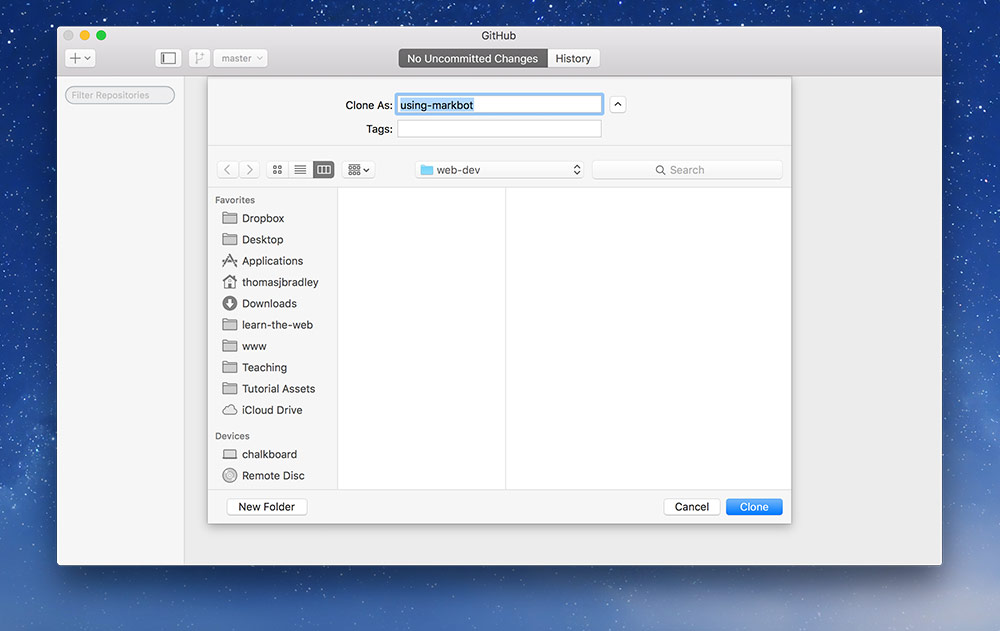
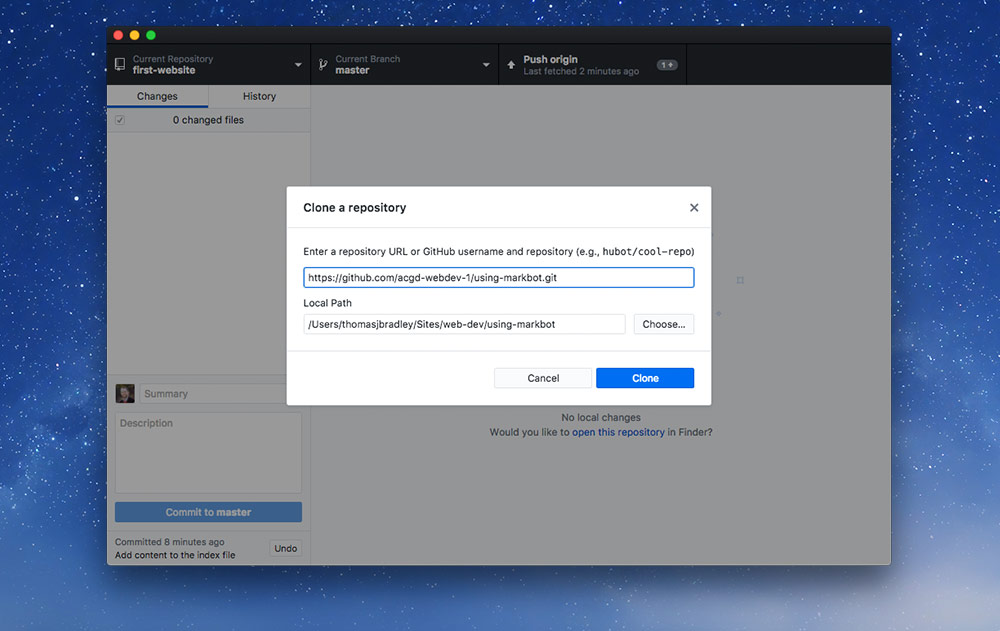
Update all the week 3 lessons to match all the new interfaces

diff --git a/website-on-github.md b/website-on-github.md
@@ -43,44 +43,21 @@ steps:
       - label: "Naming conventions"
         text: "Don’t forget to follow the [naming conventions](/topics/naming-paths-cheat-sheet/#naming-conventions)."
 
-  - title: "Create the gh-pages branch"
+  - title: "Set up for hosting"
     before: |
-      Our repository is completely usable—but it’s not a live website. By default GitHub allows us to share code online, but we have to opt-in to their website hosting service.
+      Before we write any code we’re going to set up the code repository so it’s a live, hosted website.
 
-      To opt-in to the hosting service we have to make a new branch named `gh-pages`
-
-      ![](gh-pages.jpg)
-
-      1. Click the “Branch” button.
-      2. Type `gh-pages` into the text field.
-      3. Press “Create branch: gh-pages” to execute.
-
-    notes:
-      - label: "Shortcut"
-        text: "Hit `Return` after typing `gh-pages` to create the branch."
-
-  - title: "Set the default branch"
-    before: |
-      Now we have two branches in our repository—but we only need `gh-pages`
-
-      We should set `gh-pages` as the default branch and delete the old `master` branch.
+      By default the code stored on GitHub isn’t assumed to be a website—any code can be store on the service. We need to opt-into the free website hosting that GitHub provides, named GitHub Pages.
     image_steps:
-      - url: branches.jpg
-        text: "Click “2 branches” in the top navigation."
-      - url: change-default.jpg
-        text: "Press the “Change default branch” button."
-      - url: master-default.jpg
-        text: "Change `master` to `gh-pages`"
-      - url: update.jpg
-        text: "Press “Update”."
-      - url: back-to-repo.jpg
-        text: "Go back to the main page for the repo."
-      - url: branches-2.jpg
-        text: "Press “2 branches” again."
-      - url: delete-master.jpg
-        text: "Delete `master` by pressing the trash icon."
-    after: |
-      **We now have a completely hosted GitHub website repository. But it doesn’t work yet because there’s no HTML in it.**
+      - url: "settings.jpg"
+        text: |
+          Click the “Settings” tab at the top of the repository.
+      - url: "gh-pages.jpg"
+        text: |
+          Scroll down a little and under the “GitHub Pages” section, where it says “None”, select “master branch”.
+      - url: "gh-pages-save.jpg"
+        text: |
+          Press “Save”
 
   - title: "Clone to computer"
     before: |
@@ -90,7 +67,11 @@ steps:
 
       The GitHub Desktop application will pop up and ask you where to save the repository. Put it into your `web-dev` folder—**you don’t have to make a folder specifically for this repo, the app will make it for you.**
 
-      ![](desktop.jpg)
+      ![](desktop-location.jpg)
+
+      Then click the “Clone” button:
+
+      ![](desktop-clone.jpg)
 
   - title: "Open in code editor"
     before: |
@@ -165,14 +146,17 @@ steps:
 
       ![](commit.jpg)
 
-      Then sync it to the GitHub website.
+      Then send it to the GitHub website with the “Push” button.
 
-      ![](sync.jpg)
+      ![](push.jpg)
     notes:
       - label: "Shortcut"
         text: "`⌘Return` to save the commit."
       - label: "Shortcut"
-        text: "`⌘S` to sync your changes."
+        text: "`⌘P` to push your changes."
+      - label: "Best practices"
+        text: |
+          Refer to the [**commit messages cheat sheet**](/topics/commit-message-cheat-sheet/) for the commit best practices.
 
   - title: "Test the live website"
     before: |
@@ -184,7 +168,7 @@ steps:
     after: |
       Find the URL on the GitHub website under the repository’s “Settings” tab.
 
-      ![](settings.jpg)
+      ![](settings-url.jpg)
 
       **And you should see your website!** The URL is completely open to anyone in the world.
 
@@ -192,7 +176,7 @@ steps:
 
   - title: "Fork instead…"
     before: |
-      **For all the code exercises in class we don’t have to go through the `gh-pages` branching set up process above.**
+      **For all the code exercises in class we don’t have to go through the process of setting up for hosting—the assignments are all ready.**
 
       **We’ll be using the [fork & pass tests method with Markbot](/courses/web-dev-1/using-markbot/) to hand in all work.**
       [**That lesson comes next ➔**](/courses/web-dev-1/using-markbot/)

diff --git a/using-markbot.md b/using-markbot.md
@@ -7,6 +7,14 @@ video: "Li9RIuDSMFo"
 hide_show_for_marks: true
 hide_markbot: true
 
+extra_tutorials:
+  - title: "Markbot download (MacOS)"
+    url: "https://assets.learn-the-web.algonquindesign.ca/markbot/Install%20Markbot.dmg"
+  - title: "Markbot download (Windows)"
+    url: "https://assets.learn-the-web.algonquindesign.ca/markbot/Markbot%20Setup.exe"
+  - title: "Markbot source code"
+    url: "https://github.com/thomasjbradley/markbot"
+
 steps:
   - title: "Fork the assignment repo"
     before: |
@@ -14,7 +22,7 @@ steps:
 
       The repository contains a `.markbot.yml` hidden file used to check and submit your code—running it through a battery of tests like checking commits, checking naming conventions, validation, indentation and more.
 
-      [**Go to this repository and press the “Fork” button**](https://github.com/acgd-webdev-1/using-markbot)
+      ### [Go to this repository and press the “Fork” button ➔](https://github.com/acgd-webdev-1/using-markbot)
 
       Forking makes a copy of the repository, in your account, that you can edit.
 
@@ -33,7 +41,7 @@ steps:
     before: |
       After forking, clone the repository to your computer by clicking the GitHub Desktop button.
 
-      *You don’t have to make the `gh-pages` branch because that’s already done.*
+      *You don’t have to set this repo up as a hosted website because that’s already done.*
 
       ![](clone.jpg)
 
@@ -64,7 +72,6 @@ steps:
     before: |
       Go to your folder in Finder and double click the HTML to preview in your browser.
 
-
       ![](local.jpg)
     notes:
       - label: "Shortcut"
@@ -93,10 +100,11 @@ steps:
 
       We can scroll through the big list of what’s missing, each error will be described & point to the line of code.
 
-      In our current code we have two problems:
+      In our current code we have a few problems:
 
-      1. We don’t have enough commit messages, representative of sloppy code
+      1. We don’t have enough commit messages, representative of sloppy code and poor forethought
       2. The test is expecting “Hello World!” inside our `index.html`
+      3. The website isn’t live online yet—because we haven’t pushed
 
       *So we need to fix them…*
 
@@ -108,6 +116,7 @@ steps:
       2. Refresh browser
       3. Check Markbot
       4. Commit
+      5. Push
 
       If everything is good you should get a green check mark!
 
@@ -116,16 +125,14 @@ steps:
       - label: "Shortcut"
         text: "To run the test in Markbot again press `⌘R`."
 
-  - title: "Sync & test the live website"
+  - title: "Test the live website"
     before: |
-      After you’ve finalized your code, making sure it passes Markbot **sync the website to GitHub**.
+      After you’ve finalized your code, making sure it passes Markbot, we need to test the live website.
 
-      ![](sync.jpg)
+      *We want to make sure it works on the live website before submitting for grades.*
 
-      We want to make sure it works on the live website before submitting.
-
-      Go to the live url: `http://username.github.io/fork-pass-tests`
-      Or go to “Settings” > “GitHub Pages” and click the link.
+      - Go to the live url: `http://username.github.io/using-markbot`
+      - Or go to `Settings > GitHub Pages` and click the link.
 
       ![](settings.jpg)
       ![](gh-pages.jpg)
@@ -141,7 +148,7 @@ steps:
     before: |
       When everything is working perfectly, submit the assignment to Canvas with the big button in Markbot.
 
-      ![](canvas-submit.jpg)
+      ![](submit.jpg)
 
       *Go check it out to make sure.*
 

diff --git a/version-control-github.md b/version-control-github.md
@@ -43,10 +43,21 @@ slides:
       ## Commit to save state
 
       - Commit when you’ve done something significant
-        *Added the navigation, styled the footer, fixed a bug*
+        <br>*Add the navigation; Style the footer; Fix a bug*
       - Every commit needs a message describing what changed
       - **Commit often!**
       - It’s a habit you’ll have to form
+
+  - content: |
+      ## Commit message best practices
+
+      1. Minimum 3 words & 10 characters
+      2. Proper spelling & grammar
+        <br>Capital starting letter, no period
+      3. Must start with an imperative verb
+        <br>*Create*, *Fix*, *Add*, *Solve*, etc.
+
+      Pretend every commit starts with the phrase: **“This commit will…”**
 
   - content: |
       ## Bad commit messages
@@ -62,11 +73,11 @@ slides:
   - content: |
       ## Good commit messages
 
-      “Created the basic index.html”
+      “Create the basic index.html”
 
-      “Added the navigation”
+      “Add the navigation”
 
-      “Fixed a bug in the footer”
+      “Fix a bug in the footer”
 
   - content: |
       ## Fork + Markbot
@@ -82,7 +93,7 @@ slides:
   - content: |
       ## Videos & tutorials
 
-      - [Installing & using GitHub ➔](/topics/installing-and-using-github/)
-      - [Hosting with GitHub Pages ➔](/topics/github-pages/)
+      - [Version control & GitHub ➔](/topics/version-control-github/)
       - [GitHub Issues ➔](/topics/github-issues/)
+      - [Commit message cheat sheet ➔](/topics/commit-message-cheat-sheet/)
 ---

diff --git a/week-03.md b/week-03.md
@@ -9,14 +9,15 @@ video_tutorials:
     videos: true
   - title: "GitHub Issues"
     url: github-issues
+  - title: "Commit message cheat sheet"
+    url: commit-message-cheat-sheet
+    highlight: true
   - title: "Keyboard shortcut cheat sheet"
     url: keyboard-shortcut-cheat-sheet
-    highlight: true
 
 slides:
   - title: "Version control & GitHub"
     url: version-control-github
-    disabled: true
 
 tasks:
   - title: "Keyboard Commander"
@@ -25,19 +26,15 @@ tasks:
   - title: "Website on GitHub"
     url: website-on-github
     type: lesson
-    disabled: true
   - title: "Using Markbot"
     url: using-markbot
-    disabled: true
   - title: "Create tagged issue"
     url: create-tagged-issue
     type: lesson
     submit: "Make a GitHub Issue."
-    disabled: true
   - title: "Using your code editor"
     url: using-your-code-editor
     type: lesson
     submit: "Submit nothing."
     graded-as: false
-    disabled: true
 ---
